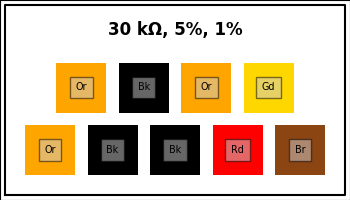
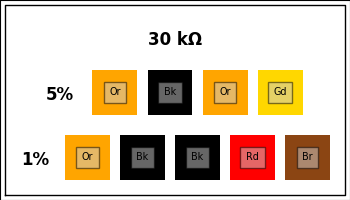
Change boxes and text to make 5% and 1% clearer

diff --git a/resistor_cards.py b/resistor_cards.py
@@ -106,16 +106,12 @@ def gen_squares_coords(sq_side: float, spacing: float) -> tuple[list[Square], li
         List of Square coordinate objects for the set of five squares
 
     """
-    # total width of four and five boxes
-    four_box_width = sq_side * 4 + spacing * 3
-    five_box_width = sq_side * 5 + spacing * 4
 
-    # find a centered margin for each set of boxes
-    four_box_x0 = (CARD_WIDTH - four_box_width) / 2
-    five_box_x0 = (CARD_WIDTH - five_box_width) / 2
-
-    five_box_y0 = five_box_x0  # even margins
-    four_box_y0 = five_box_y0 + sq_side + spacing
+    boxes_right = CARD_WIDTH - 2 * spacing  # end boxes two spacings from the right edge
+    five_box_y0 = 2 * spacing
+    five_box_x0 = boxes_right - 5 * sq_side - 4 * spacing
+    four_box_x0 = five_box_x0 + sq_side / 2 + spacing / 2
+    four_box_y0 = five_box_y0 + sq_side + 2 * spacing
 
     four_box_coords = [Square(four_box_x0 + i * (sq_side + spacing), four_box_y0, sq_side) for i in range(4)]
 
@@ -151,7 +147,7 @@ def generate_card(
     four_colors = [*rval.as_three_bands(), TolerancePercentColor(four_box_tol).name]
     five_colors = [*rval.as_four_bands(), TolerancePercentColor(five_box_tol).name]
 
-    four_coords, five_coords = gen_squares_coords(sq_side=0.5, spacing=0.125)
+    four_coords, five_coords = gen_squares_coords(sq_side=0.45, spacing=0.1)
 
     text_opts = {
         "horizontalalignment": "center",
@@ -166,10 +162,16 @@ def generate_card(
         ax.fill(square.x, square.y, ColorHex[color])
         ax.text(square.center_x, square.center_y, ColorAbbr[color], **square_text_opts)
 
-    text_x = CARD_WIDTH / 2
-    text_y = 1.7
+    res_text_x = CARD_WIDTH / 2
+    res_text_y = 1.6
+    five_band_txt_y0 = 0.4
+    four_band_txt_y0 = five_band_txt_y0 + 0.45 + 0.2
+    five_band_txt_x0 = 0.35
+    four_band_txt_x0 = 0.6
     res_text_opts = text_opts | {"fontsize": "large", "fontweight": "bold"}
-    ax.text(text_x, text_y, f"{rval}, {five_box_tol:g}%, {five_box_tol:g}%", **res_text_opts)
+    ax.text(res_text_x, res_text_y, str(rval), **res_text_opts)
+    ax.text(five_band_txt_x0, five_band_txt_y0, f"{five_box_tol:g}%", **res_text_opts)
+    ax.text(four_band_txt_x0, four_band_txt_y0, f"{four_box_tol:g}%", **res_text_opts)
     gen_border(ax, 0.05)
 
     ax.axis("equal")
